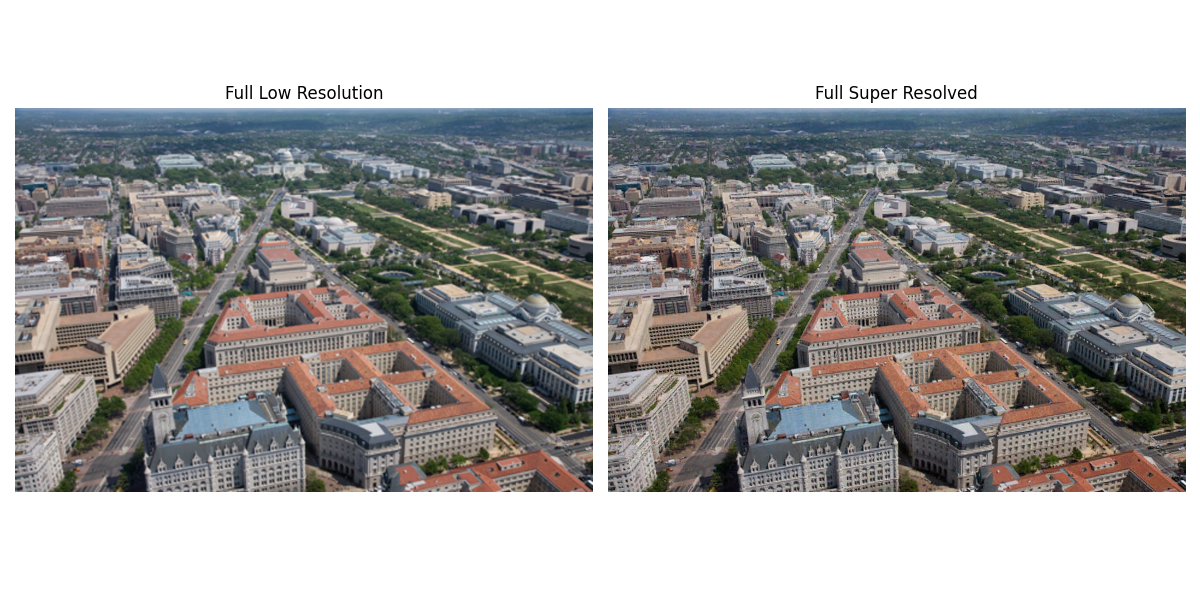
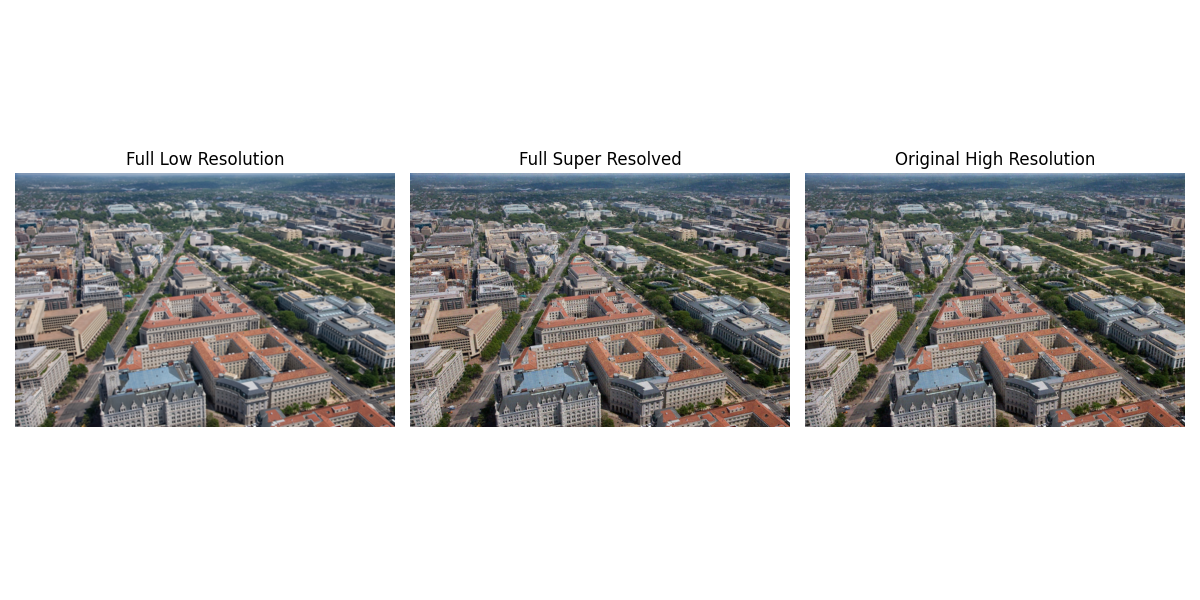
test and data checks

diff --git a/image_reconsturct.py b/image_reconsturct.py
@@ -1,0 +1,174 @@
+import os
+from PIL import Image
+import torch
+import torchvision.transforms as transforms
+import matplotlib.pyplot as plt
+from utils import sample
+from train import load_checkpoint
+#--------------------------------------------------------------#
+# Given a directory with image patches and each with name format <image-id_xcord_ycord> this function recomputes the hr lr and sr
+#full image and compares them.
+#--------------------------------------------------------------#
+def process_hr_patches_and_save_full_image(patch_dir, model, checkpoint_path = None,optimizer = None,device="cuda", output_path="full_image.png",
+                                           image_id=None, hr_size=128, lr_size=32):
+    """
+    Loads high-resolution patch images from a directory (with filenames like "0052_128_256.png"),
+    computes a low-resolution version (by downscaling then upscaling), passes the LR patches
+    through the super-resolution model, and then reconstructs full images by stitching the patches
+    at their proper positions. Finally, it creates a side-by-side plot of:
+        - Left: Full low-resolution (upscaled) image.
+        - Right: Full super-resolved image.
+
+    Args:
+        patch_dir (str): Directory containing the high-resolution patch image files.
+        model: Your super-resolution model.
+        device (str): Device to run the model on.
+        output_path (str): File path for saving the final figure.
+        image_id (str or None): If provided, only process patches whose filename starts with this image_id (e.g. "0052").
+        hr_size (int): The expected size (width/height) of each high-resolution patch (default: 128).
+        lr_size (int): The size to which the HR patch is downscaled before being upscaled (default: 32).
+
+    Note:
+        This function assumes that there is a callable `sample(model, lr_tensor, device=device)`
+        that takes a batch of LR patches (tensor shape: [N, C, hr_size, hr_size]) and returns the
+        corresponding super-resolved patches.
+    """
+
+    # List patch files in the directory
+    patch_files = [f for f in os.listdir(patch_dir) if os.path.isfile(os.path.join(patch_dir, f))]
+    if image_id is not None:
+        patch_files = [f for f in patch_files if f.startswith(image_id + "_")]
+
+    if not patch_files:
+        print("No patch files found!")
+        return
+
+    # We'll use a simple ToTensor transform (values in [0,1]) for later plotting.
+    to_tensor = transforms.ToTensor()
+    if checkpoint_path is not None:
+        dummy_optimizer = optimizer
+        epoch = load_checkpoint(model.model, dummy_optimizer, checkpoint_path, device)
+        model.model.to(device)
+        model.model.eval()
+    # Store each patch along with its coordinates.
+    patches_info = []
+    for fname in patch_files:
+        # Expected filename format: "0052_<x>_<y>.png"
+        name, _ = os.path.splitext(fname)
+        parts = name.split('_')
+        if len(parts) < 3:
+            print(f"Skipping {fname}: does not follow the naming convention.")
+            continue
+
+        try:
+            # Here, parts[1] is the x coordinate and parts[2] is the y coordinate (both multiples of hr_size)
+            x = int(parts[1])
+            y = int(parts[2])
+        except ValueError:
+            print(f"Skipping {fname}: cannot parse coordinates.")
+            continue
+
+        patch_path = os.path.join(patch_dir, fname)
+        # Load the HR patch (as a PIL image) and ensure it is in RGB.
+        hr_patch_img = Image.open(patch_path).convert("RGB")
+        # (Optional) Force the patch to be hr_size x hr_size if needed.
+        if hr_patch_img.size != (hr_size, hr_size):
+            hr_patch_img = hr_patch_img.resize((hr_size, hr_size), resample=Image.BICUBIC)
+
+        # Compute the LR version:
+        # 1. Downscale to lr_size x lr_size using bicubic interpolation.
+        lr_patch_img = hr_patch_img.resize((lr_size, lr_size), resample=Image.BICUBIC)
+        # 2. Upscale back to hr_size x hr_size using bicubic interpolation.
+        lr_patch_img = lr_patch_img.resize((hr_size, hr_size), resample=Image.BICUBIC)
+
+        # Convert both images to tensors.
+        # (The HR patch is the ground truth if needed; here we mainly use the LR version.)
+        hr_tensor = to_tensor(hr_patch_img)
+        lr_tensor = to_tensor(lr_patch_img)
+
+        patches_info.append({
+            "coords": (x, y),
+            "lr_tensor": lr_tensor,
+            "hr_tensor": hr_tensor  # stored in case you want to compare with ground truth
+        })
+
+    if not patches_info:
+        print("No valid patch information found!")
+        return
+
+    # Determine the full image dimensions.
+    # Assumes that x and y in the filenames represent the top-left pixel coordinates.
+    patch_dim = hr_size  # each patch is hr_size x hr_size
+    max_x = max(info["coords"][0] for info in patches_info)
+    max_y = max(info["coords"][1] for info in patches_info)
+    full_width = max_x + patch_dim
+    full_height = max_y + patch_dim
+
+    # Assume all images have the same number of channels (e.g., 3 for RGB)
+    C = patches_info[0]["lr_tensor"].shape[0]
+    # Create empty canvases for the full LR (upscaled) and full super-resolved images.
+    full_lr = torch.zeros((C, full_height, full_width))
+    full_sr = torch.zeros((C, full_height, full_width))
+
+    # Prepare a list of LR patches and corresponding coordinates.
+    lr_list = [info["lr_tensor"] for info in patches_info]
+    coords_list = [info["coords"] for info in patches_info]
+
+    # Stack the LR patches into a batch and move to the specified device.
+    lr_batch = torch.stack(lr_list, dim=0).to(device)
+
+    # Process the LR patches through your super-resolution model.
+    # (Assumes your sample() function handles batched input.)
+    with torch.no_grad():
+
+        sr_batch = sample(model, lr_batch, device=device)
+
+    sr_batch = sr_batch.detach().cpu()
+
+    # Place each patch (both LR and SR) into its correct location in the full image.
+    for i, (x, y) in enumerate(coords_list):
+        save_path = os.path.join("reconstruct_lr_patches", f"sample_{i:03d}.png")
+        plt.figure(figsize=(8, 8))
+        plt.title("Low Resolution Patch")
+        plt.imshow(lr_batch[i].detach().cpu().permute(1, 2, 0).numpy())
+        plt.axis('off')
+        plt.savefig(save_path)
+        if i<2:
+            plt.show()
+
+        full_lr[:, y:y + patch_dim, x:x + patch_dim] = lr_batch[i].detach().cpu()
+        full_sr[:, y:y + patch_dim, x:x + patch_dim] = sr_batch[i]
+
+    # Convert the full images to numpy arrays for plotting (shape: [H, W, C]).
+    full_lr_np = full_lr.permute(1, 2, 0).numpy()
+    full_sr_np = full_sr.permute(1, 2, 0).numpy()
+
+    # Create a side-by-side plot: left = full LR, right = full super-resolved.
+    fig, axs = plt.subplots(1, 3, figsize=(12, 6))
+    axs[0].imshow(full_lr_np)
+    axs[0].set_title("Full Low Resolution")
+    axs[0].axis("off")
+
+    axs[1].imshow(full_sr_np)
+    axs[1].set_title("Full Super Resolved")
+    axs[1].axis("off")
+
+    axs[2].imshow(full_sr_np)
+    axs[2].set_title("Original High Resolution")
+    axs[2].axis("off")
+    plt.tight_layout()
+    plt.savefig(output_path)
+    plt.show()
+    print(f"Saved full image figure to {output_path}")
+
+# ------------------------------------------------------------------------------
+# Example usage:
+#
+# patch_dir = "/path/to/your/high_res_patches"
+# output_path = "stitched_full_image.png"
+# image_id = "0052"   # if you want to process only patches for image "0052"
+#
+# # Ensure your model and sample() function are loaded/defined.
+# process_hr_patches_and_save_full_image(patch_dir, model, device="cuda",
+#                                        output_path=output_path, image_id=image_id,
+#                                        hr_size=128, lr_size=32)

diff --git a/main.py b/main.py
@@ -13,7 +13,7 @@ from utils import *
 # from your_split_file import split_data   # or however you import split_data
 import json
 import torch
-
+from image_reconsturct import   process_hr_patches_and_save_full_image
 # Import the data-preprocessing function
 from data_preprocessing import preprocess_data
 
@@ -75,6 +75,17 @@ def main(config_path="config.json"):
         fid_device = device
         checkpoint_directory = "checkpoints/final checkpoint"
         evaluate_checkpoints(ddpm, config["valid_hr_dir"], checkpoint_directory, device=device, batch_size=16, fid_device=fid_device)
-
+    elif config ["mode"] == "reconstruct_full_image":
+        patch_dir = "DIV2K/patched_one_image"
+        output_path = "stitched_full_image.png"
+        image_id = "0052"   # if you want to process only patches for image "0052"
+        checkpoint_directory = "checkpoints/sr_ep_48.pt"
+        # Dummy optimizer (only needed for load_checkpoint).
+        dummy_optimizer = torch.optim.Adam(ddpm.model.parameters(), lr=1e-3)
+        checkpoint_path = config["checkpoint_path"]
+        # Ensure your model and sample() function are loaded/defined.
+        process_hr_patches_and_save_full_image(patch_dir, ddpm, checkpoint_path,dummy_optimizer, device=device,
+                                               output_path=output_path, image_id=image_id,
+                                               hr_size=128, lr_size=32)
 if __name__ == "__main__":
     main()
